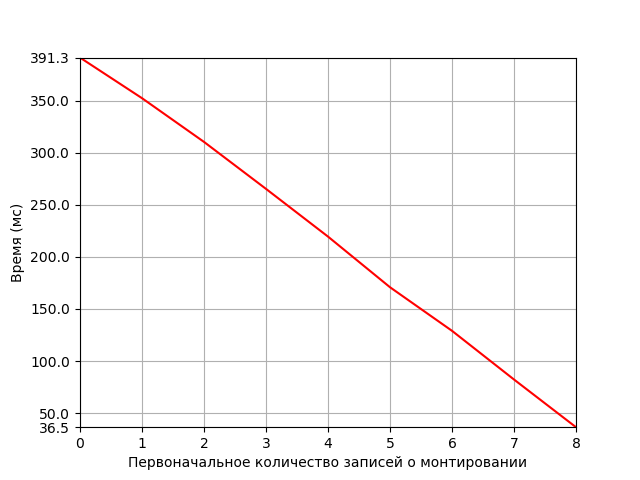
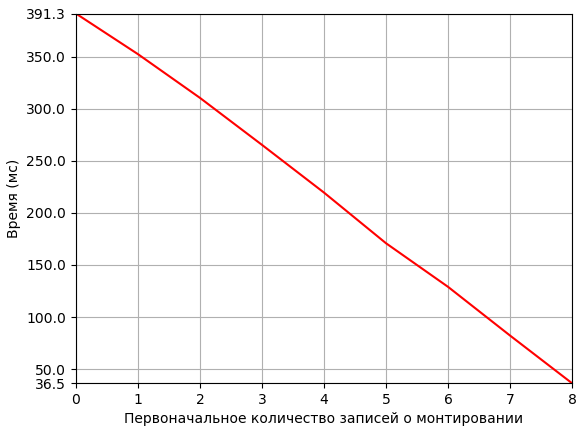
some issues

diff --git a/Notes/mydlp-front/vitest.config.ts b/Notes/mydlp-front/vitest.config.ts
@@ -9,6 +9,11 @@ export default mergeConfig(
       environment: 'jsdom',
       exclude: [...configDefaults.exclude, 'e2e/**'],
       root: fileURLToPath(new URL('./', import.meta.url)),
+      coverage: {
+        provider: 'v8', // или 'istanbul'
+        include: ['src/**/*.{ts,js,vue}'], // какие файлы включать в покрытие
+        exclude: ['**/*.test.ts', '**/*.spec.ts', 'e2e/**', "src/App.vue", "src/main.ts", "src/api/websocket.ts", "src/api/api.ts", "src/components/AppContainer.vue", "src/router/index.ts"],
+      },
     },
   }),
 )

diff --git a/Notes/report/parts/04-techno.tex b/Notes/report/parts/04-techno.tex
@@ -31,7 +31,7 @@
 В качестве среды разработки был выбран Visual Studio Code~\cite{VSCode} --- кроссплатформенная среда,
 функциональность которой может быть увеличена с использованием дополнительных расширений.
 
-\section{Выбор средства тестирования кода}
+\section{Выбор средств тестирования кода}
 
 Для тестирования серверной части приложения был выбран фреймворк GoogleTests~\cite{GoogleTests}. 
 Данный продукт позволяет создавать unit-тесты, e2e-тесты и интеграционные тесты. Разработан специально 
@@ -116,5 +116,79 @@ WebSocket~\cite{WebSocket}.
 На основе анализа, для разрабатываемого комплекса была выбрана SQLite.
 
 \section{Взаимодействие пользователя с приложением}
+
+Пользователь может взаимодействовать с программным комплексом через Web-интерфейс, доступный
+по адресу \url{http://localhost:5173/}. 
+
+\subsection{Экран подключённых устройств}
+
+По адресу \url{http://localhost:5173/list/} пользователю доступен список подключённых в данный
+момент устройств. Над список есть 2 кнопки для перехода по экранам приложения. Слева находится кнопка с надписью 
+<<Подключённые устройства>> (переход на описываемый экран), а справа от неё кнопка с надписью <<Доверенные 
+устройства>> (переход в список доверенных устройств). Для каждого устройства отображаются следующие данные:
+
+\begin{enumerate}
+    \item путь монтирования;
+    \item режим монтирования;
+    \item название производителя;
+    \item название устройства;
+    \item серийный номер;
+    \item идентификатор производителя;
+    \item идентификатор устройства.
+\end{enumerate}
+
+Также справа от каждого устройства отображается иконка добавления в список доверенных устройств с изображением
+знака \texttt{+}, при наведении указателя мыши на которую всплывает подсказка с текстом \texttt{<<Добавить>>}. В случае, 
+если устройство уже доверено, справа отображается иконка с изображением знака \texttt{\checkmark}, при наведении курсора на которую 
+всплывает подсказка с текстом \texttt{<<Уже добавлено>>}. При наведении указателя мыши на любую из кнопок курсор 
+меняется на символ \includegraphics{inc/img/mouse.png}. Макет описанного экрана представлен на рисунке~\ref{img:interface_1}.
+
+\includeimage
+    {interface_1}
+    {f}
+    {H}
+    {1\textwidth}
+    {Экран подключённых в данный момент устройств}
+
+\subsection{Экран доверенных устройств}
+
+По адресу \url{http://localhost:5173/whitelist/} пользователю доступен список доверенных устройств. Над списком аналогично 
+находятся кнопки навигации. Для каждого устройства отображаются следующие параметры:
+
+\begin{enumerate}
+    \item название производителя;
+    \item название устройства;
+    \item серийный номер;
+    \item идентификатор производителя;
+    \item идентификатор устройства;
+    \item дата истечения доверия.
+\end{enumerate}
+
+В случае если дата истечения доверия не задана(устройство доверено бессрочно), то в поле <<Доверено до>> отображается шаблон
+даты \texttt{дд.мм.гггг}.
+
+Также справа от каждого устройства отображается иконка удаления из списка доверенных устройств с изображением
+символа \includegraphics[height=2.5ex]{inc/img/trash.png}, при наведении указателя мыши на которую всплывает подсказка 
+с текстом \texttt{<<Удалить>>}.
+
+Макет описанного экрана представлен на рисунке~\ref{img:interface_2}.
+
+\includeimage
+    {interface_2}
+    {f}
+    {H}
+    {1\textwidth}
+    {Экран доверенных устройств}
+
+При нажатии на поле <<Доверено до>> появляется всплывающее окно календаря, в котором пользователь может указать дату истечения доверия,
+которая не может быть раньше текущей. В случае, если необходимо сделать доверие бессрочным, можно нажать на кнопку 
+календаря с надписью <<Удалить>>. Макет выбора даты представлен на рисунке~\ref{img:interface_3}.
+
+\includeimage
+    {interface_3}
+    {f}
+    {H}
+    {0.3\textwidth}
+    {Экран выбора даты истечения доверия в календаре}
 
 \section{Результаты тестирования}

diff --git a/Notes/report/parts/05-research.tex b/Notes/report/parts/05-research.tex
@@ -26,7 +26,7 @@
 
 Хостовая машина работает на процессоре 11th Gen Intel(R) Core(TM) i7-11370H @ 3.30 Ггц~\cite{Intel}.
 
-\section{План исследования}
+\section{Проведение исследования и результаты}
 
 Для проведения исследования с помощью модуля ядра \texttt{dummy\_hcd}~\cite{Dummy} было создано 
 виртуальное устройство USB с восьмью LUN (Logical Unit Number).
@@ -38,17 +38,6 @@
 о монтировании, все устройства размонтируются, \texttt{N} устройств из 8 монтируется, записи о них сохраняются.
 Количество виртуальных устройств неизменно.
 
-\subsection{План второй части исследования}
-
-Количество исходных записей о монтировании и количество виртуальных устройств неизменно и равно 8.
-Перед каждым замером очищается хранилище записей о монтировании, все устройства перемонтируются,
-часть записей сохраняется в достоверном виде, а \texttt{N} записей записи сохраняются в изменённом 
-формате --- режим монтирования меняется на противоположный, где \texttt{N} изменяется от 0 до 8.
-
-\section{Результаты исследования}
-
-В результате проведённого исследования были получены следующие результаты.
-
 \subsection{Результаты первой части исследования}
 
 В результате был получен график зависимости времени выполнения алгоритма обработки узлов устройств и 
@@ -58,11 +47,18 @@
     {research_1}
     {f}
     {H}
-    {0.90\textwidth}
+    {1\textwidth}
     {Результат первой части исследования}
 
 Время выполнения алгоритма практически линейно зависит от количества записей. При наличии всех 
 записей о монтировании время выполнения уменьшается более чем в 10 раз относительно состояния отсутствия записей.
+
+\subsection{План второй части исследования}
+
+Количество исходных записей о монтировании и количество виртуальных устройств неизменно и равно 8.
+Перед каждым замером очищается хранилище записей о монтировании, все устройства перемонтируются,
+часть записей сохраняется в достоверном виде, а \texttt{N} записей записи сохраняются в изменённом 
+формате --- режим монтирования меняется на противоположный, где \texttt{N} изменяется от 0 до 8.
 
 \subsection{Результаты второй части исследования}
 
@@ -73,9 +69,9 @@
     {research_2}
     {f}
     {H}
-    {0.90\textwidth}
+    {1\textwidth}
     {Результат второй части исследования}
 
 Время выполнения алгоритма растёт при увеличении количества недостоверных записей, так как при обнаружении несоответствия фактического
-режима монтирования и документированного режима происходит перемонтирование и перезапись записи о монтировании.
+режима монтирования и документированного режима происходит перемонтирование и обновление записи о монтировании.
 Наблюдается семикратное увеличение времени выполнения при недостоверности всех 8 записей относительно полностью правильного набора.

diff --git a/Notes/report/preamble.tex b/Notes/report/preamble.tex
@@ -3,6 +3,8 @@
 \addbibresource{biblio.bib}
 
 \usepackage{etoolbox}
+\usepackage{amssymb}
+
 
 \makeatletter
 \patchcmd{\l@chapter}%